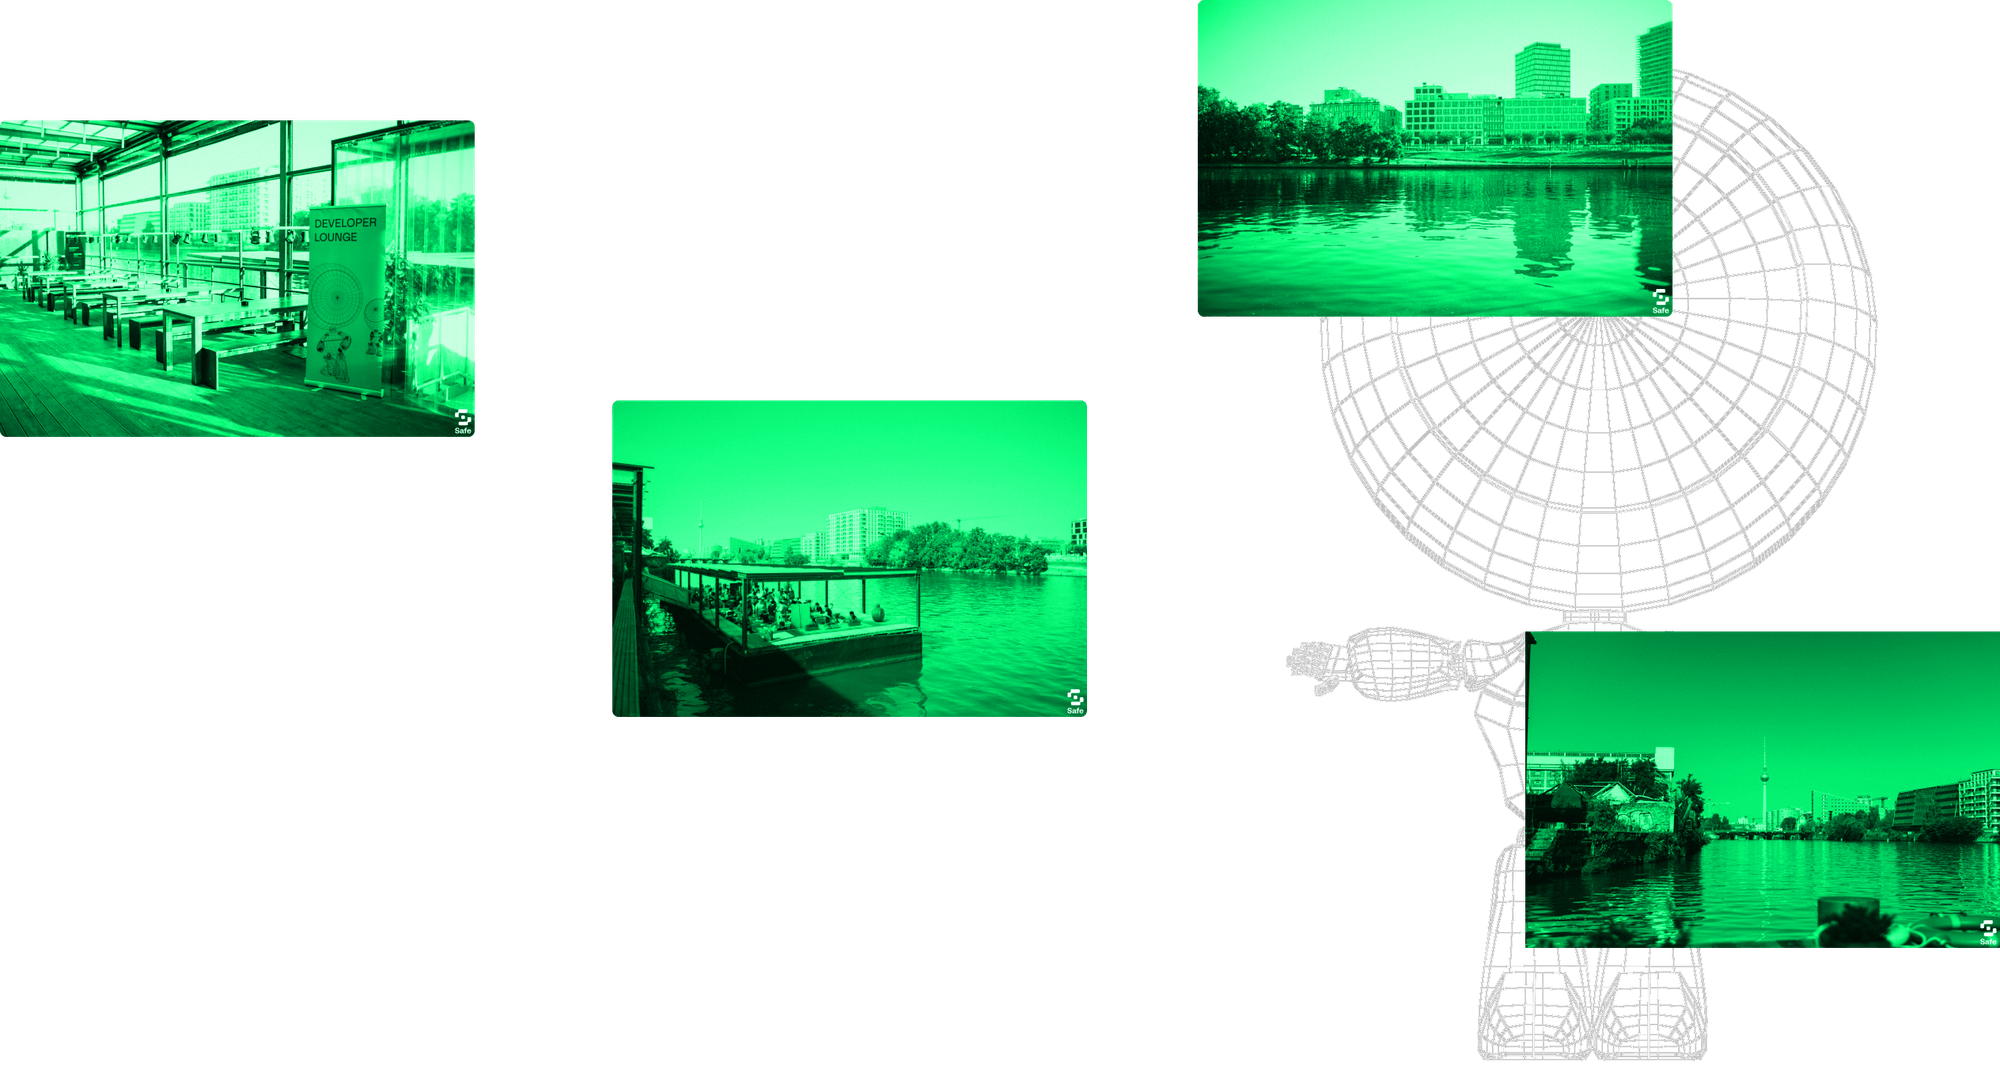
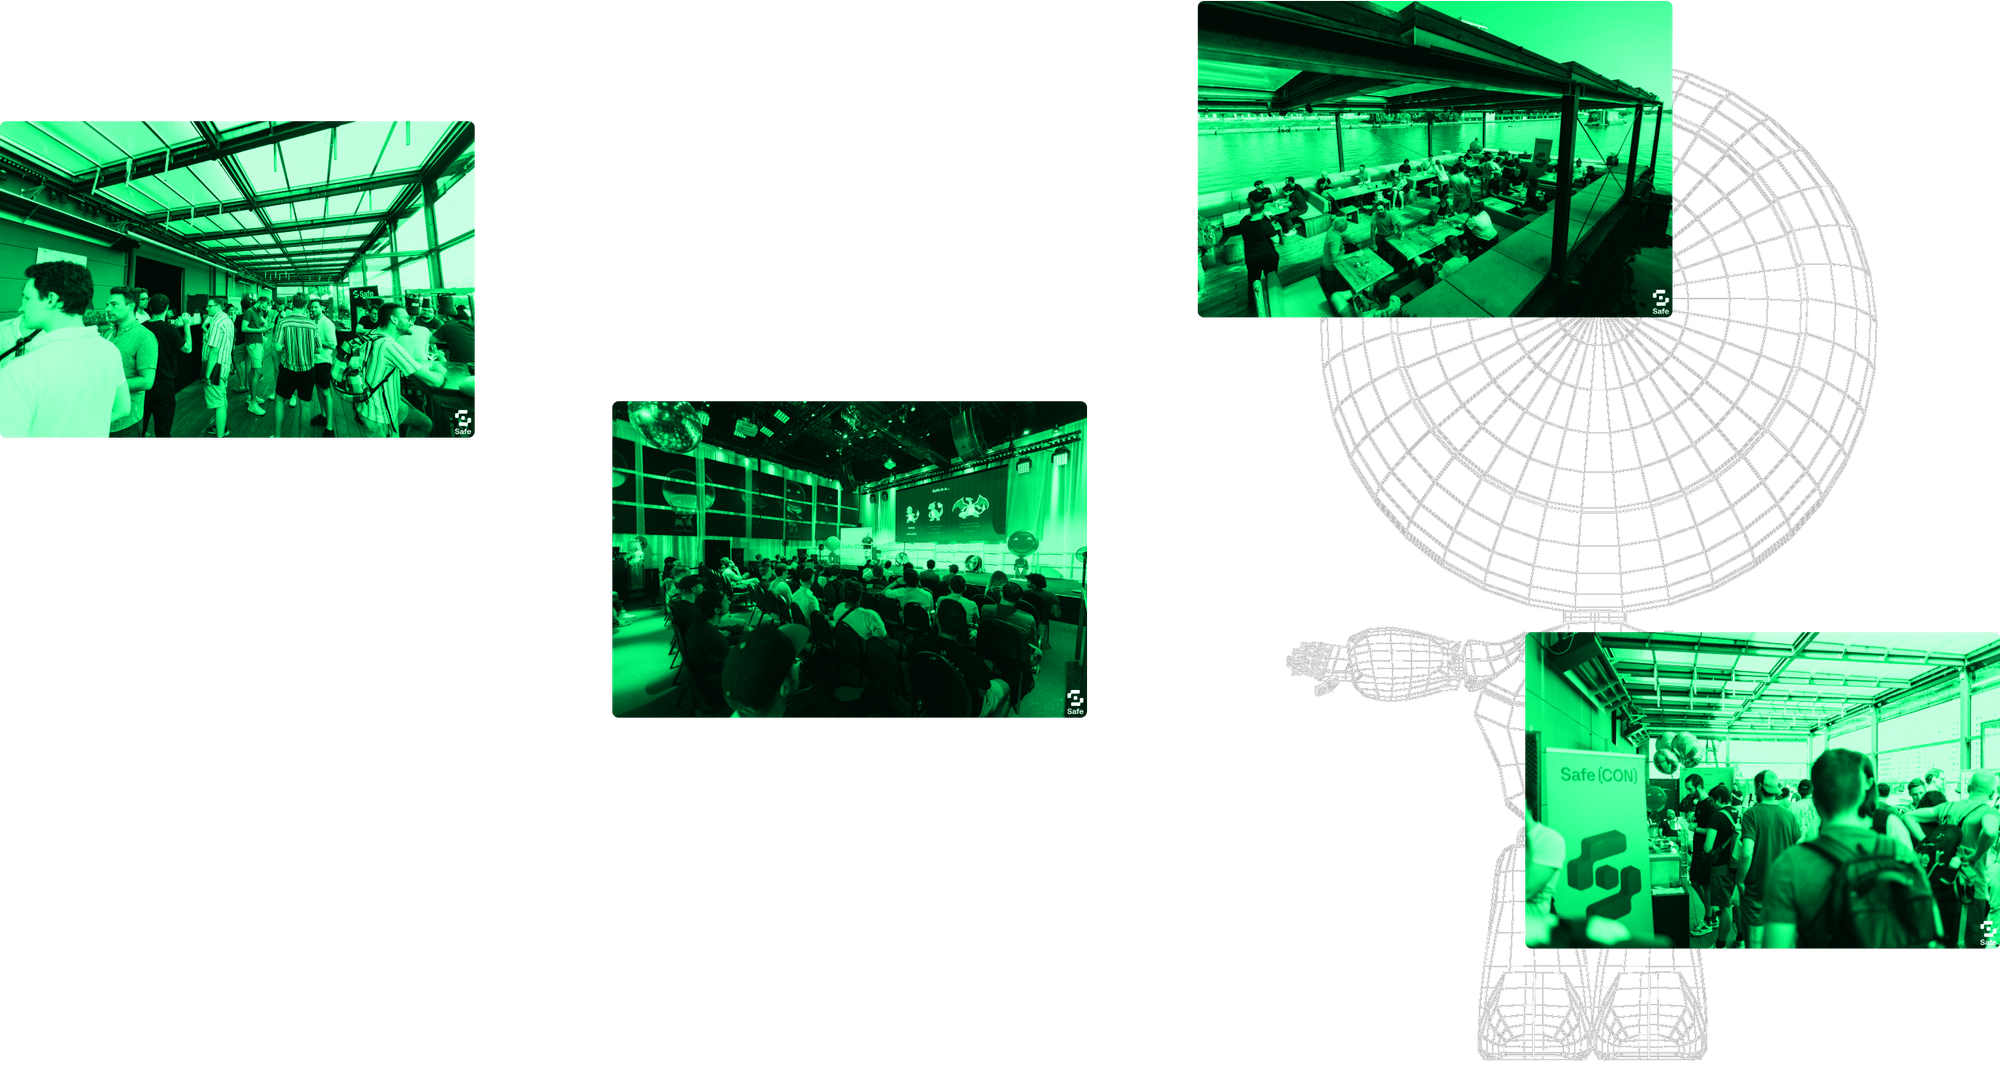
change hero image

diff --git a/css/safe-con-2024.webflow.css b/css/safe-con-2024.webflow.css
@@ -704,7 +704,7 @@
 }
 
 .section-2 {
-  background-image: url('../images/Group-1000002850.png');
+  background-image: url('../images/hero-banner-image.png');
   background-position: 50%;
   background-repeat: no-repeat;
   background-size: 90%;
@@ -1634,6 +1634,7 @@
   }
 
   .section-2 {
+    background-position: 50% 20%;
     padding-top: 60px;
     padding-bottom: 80px;
   }
